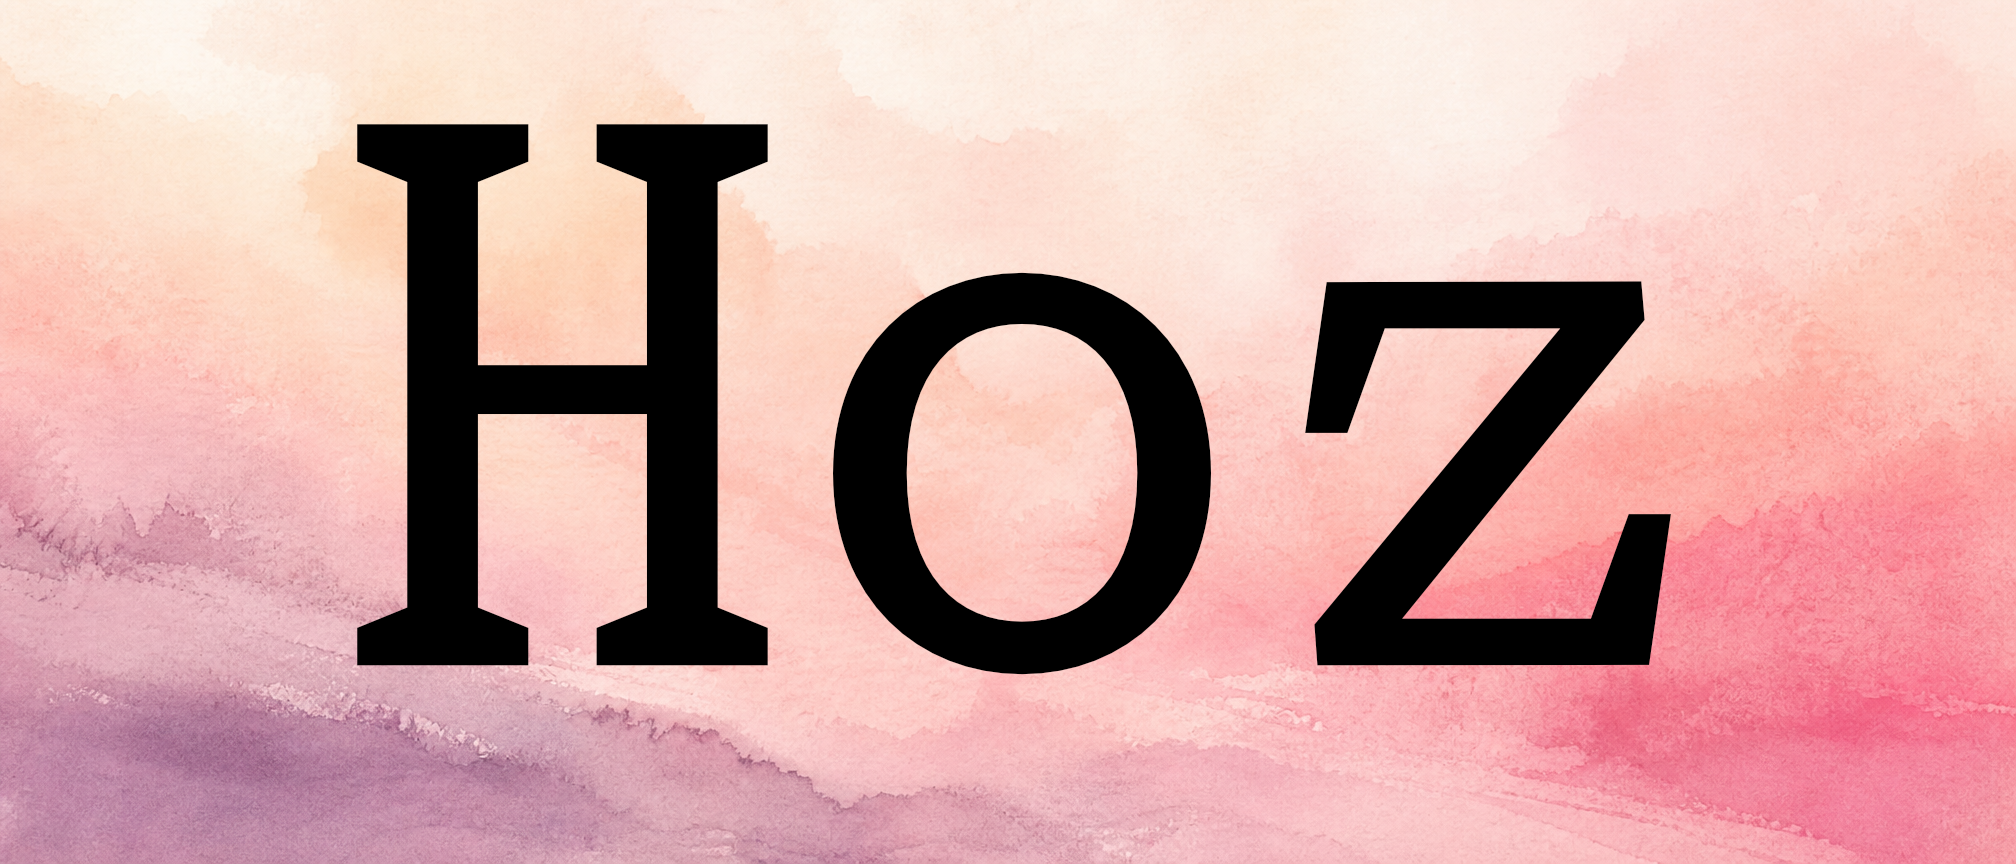
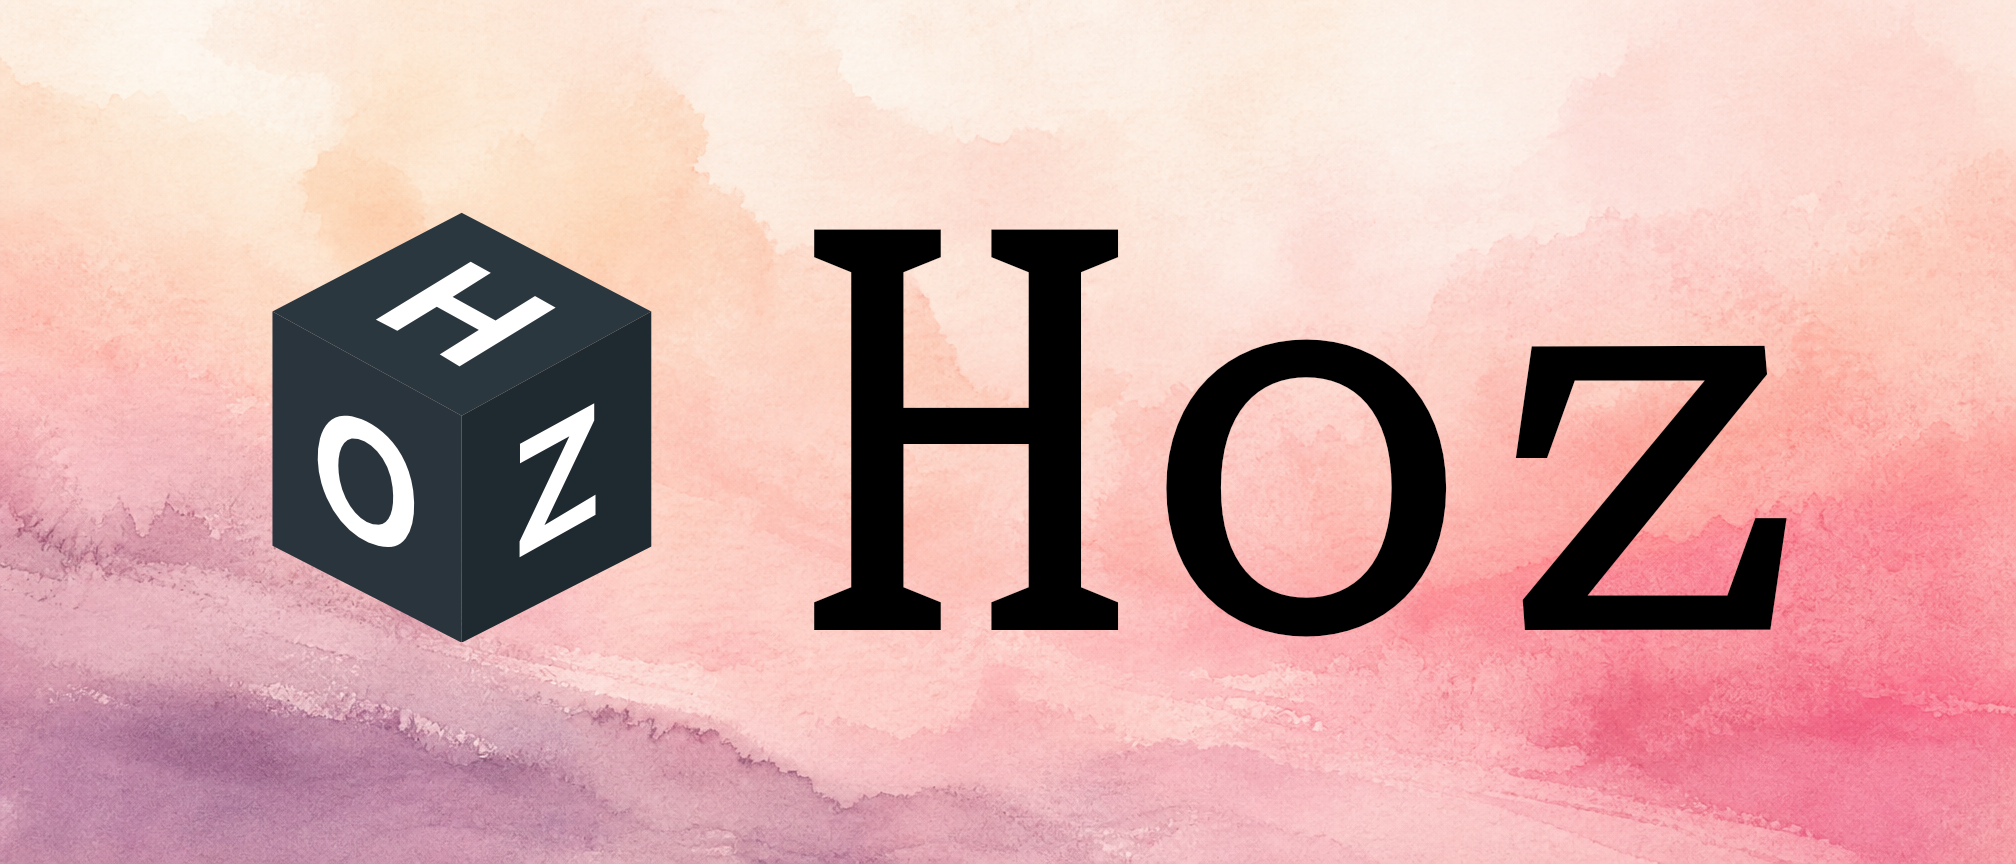
fix(log): fix log, add, status error

Changed region(s): [[0.125, 0.125, 0.9062, 0.7812]]

diff --git a/.wasup/changelogs/v0.5.2.md b/.wasup/changelogs/v0.5.2.md
@@ -1,0 +1,54 @@
+<!--
+  Generated by relote skill
+  Sources: wsp-opt (todos/v0.5.2.md), git log v0.5.1..v0.5.2
+  Generated: 2026-05-10 12:03:00 +0800
+-->
+
+# Changelog
+
+All notable changes to this project will be documented in this file.
+
+The format is based on [Keep a Changelog](https://keepachangelog.com/en/1.1.0/),
+and this project adheres to [Semantic Versioning](https://semver.org/spec/v2.0.0.html).
+
+## [v0.5.2] - 2026-05-10
+
+### Fixed
+
+- **`openDirAbsolute` receiving relative paths** — 5 call sites passed the literal string `".git"` to `openDirAbsolute`, which expects an absolute path. Replaced with `currentPathAlloc` + `allocPrint` to construct the full absolute path in [`commit.zig`](../src/cli/commit.zig), [`add.zig`](../src/cli/add.zig), and [`benchmark.zig`](../src/final/benchmark.zig) (`aac6097`)
+- **Memory leaks in every `object_mod.parse()` call** — `parse()` allocates `owned_data` that was never freed. Added `Object.deinit(allocator)` method to [`object.zig`](../src/object/object.zig) and `defer obj.deinit(allocator)` after **every parse call site across 21 files (36 total)** including:
+  - Stash operations: [`pop.zig`](../src/stash/pop.zig) (4 sites), [`apply.zig`](../src/stash/apply.zig) (4 sites)
+  - Reset operations: [`hard.zig`](../src/reset/hard.zig) (4 sites), [`restore_source.zig`](../src/reset/restore_source.zig) (1 site)
+  - CLI commands: [`rebase.zig`](../src/cli/rebase.zig) (8 sites), [`cherry_pick.zig`](../src/cli/cherry_pick.zig) (6 sites), [`revert.zig`](../src/cli/revert.zig) (5 sites), [`format_patch.zig`](../src/cli/format_patch.zig) (3 sites), [`checkout.zig`](../src/cli/checkout.zig) (3 sites), [`branch.zig`](../src/cli/branch.zig) (3 sites), [`ls_tree.zig`](../src/cli/ls_tree.zig) (2 sites), [`show.zig`](../src/cli/show.zig) (1 site), [`cat_file.zig`](../src/cli/cat_file.zig) (1 site), [`filter_repo.zig`](../src/cli/filter_repo.zig) (1 site)
+  - Object subtypes: [`blob.zig`](../src/object/blob.zig), [`tree.zig`](../src/object/tree.zig), [`tag.zig`](../src/object/tag.zig), [`commit.zig`](../src/object/commit.zig)
+  - Describe: [`describe.zig`](../src/describe/describe.zig) (1 site) (`cbe0a24`)
+- **Incomplete date output in log command** — [`formatDate()`](../src/cli/log.zig) was outputting only `"Mon Day"` (e.g., `"Jan 5"`) instead of the full Git standard format `"Mon Jan  5 12:34:56 2025 +0000"`. Fixed with manual weekday calculation compatible with Zig 0.16 epoch API (which lacks `getWeekday()`) (`166337c`)
+- **Silent error swallowing on file I/O** — 8 `catch {}` blocks on `writeFile`, `deleteFile`, and `createDirPath` operations silently discarded errors indicating potential data loss. Replaced with `warningMessage()` calls in [`filter_repo.zig`](../src/cli/filter_repo.zig), [`branch.zig`](../src/cli/branch.zig), [`checkout.zig`](../src/cli/checkout.zig), [`revert.zig`](../src/cli/revert.zig), and [`cherry_pick.zig`](../src/cli/cherry_pick.zig) (included in `cbe0a24`)
+
+### Changed
+
+- **Removed dead `Decompressor` code** (~160 lines) from [`deflate.zig`](../src/compress/deflate.zig) — after switching decompression to `std.compress.flate.Decompress`, the custom `Decompressor` struct and all its helpers (`inflateBlockFixed`, `inflateBlockStored`, decode tables) were unreferenced production code. Also removed 5 unused error variants (`InvalidChecksum`, `BadBlockType`, `CorruptData`, `CorruptStream`, `UnsupportedFeature`) and redundant manual zlib header validation now handled by stdlib (`bcb36ec`)
+
+### MoSCoW Summary
+
+This release completes **all 6 planned tasks** (3 Must-have + 2 Should-have + 1 Could-have) from the v0.5.2 bugfix plan:
+
+| ID | Task | Priority | Status |
+|----|------|----------|--------|
+| M1 | Fix `openDirAbsolute` with relative paths | Must-have | Done |
+| M2 | Fix all `object_mod.parse()` memory leaks (36 sites / 21 files) | Must-have | Done |
+| M3 | Clean up dead code from zlib refactor (Decompressor, unused errors) | Must-have | Done |
+| S1 | Fix `formatDate` incomplete output to full Git standard format | Should-have | Done |
+| S2 | Verify `parseFromParts` errdefer guards | Should-have | Already correct |
+| C1 | Audit & replace silent `catch {}` with warnings (8 sites) | Could-have | Done |
+
+Deferred to v0.6.0: C2 (CRC32 streaming API replacement), W1–W3 (large repo perf / remote recovery / GUI).
+
+### Statistics
+- **5 commits** (v0.5.1..v0.5.2)
+- **25 source files changed**, +138 / -329 lines (net reduction of 191 lines)
+- **Branch:** feat/v0.5.2-invalid-command → merged into `dev`
+
+## [v0.5.1] - 2026-05-09
+
+(See [v0.5.1.md](./v0.5.1.md) for details)